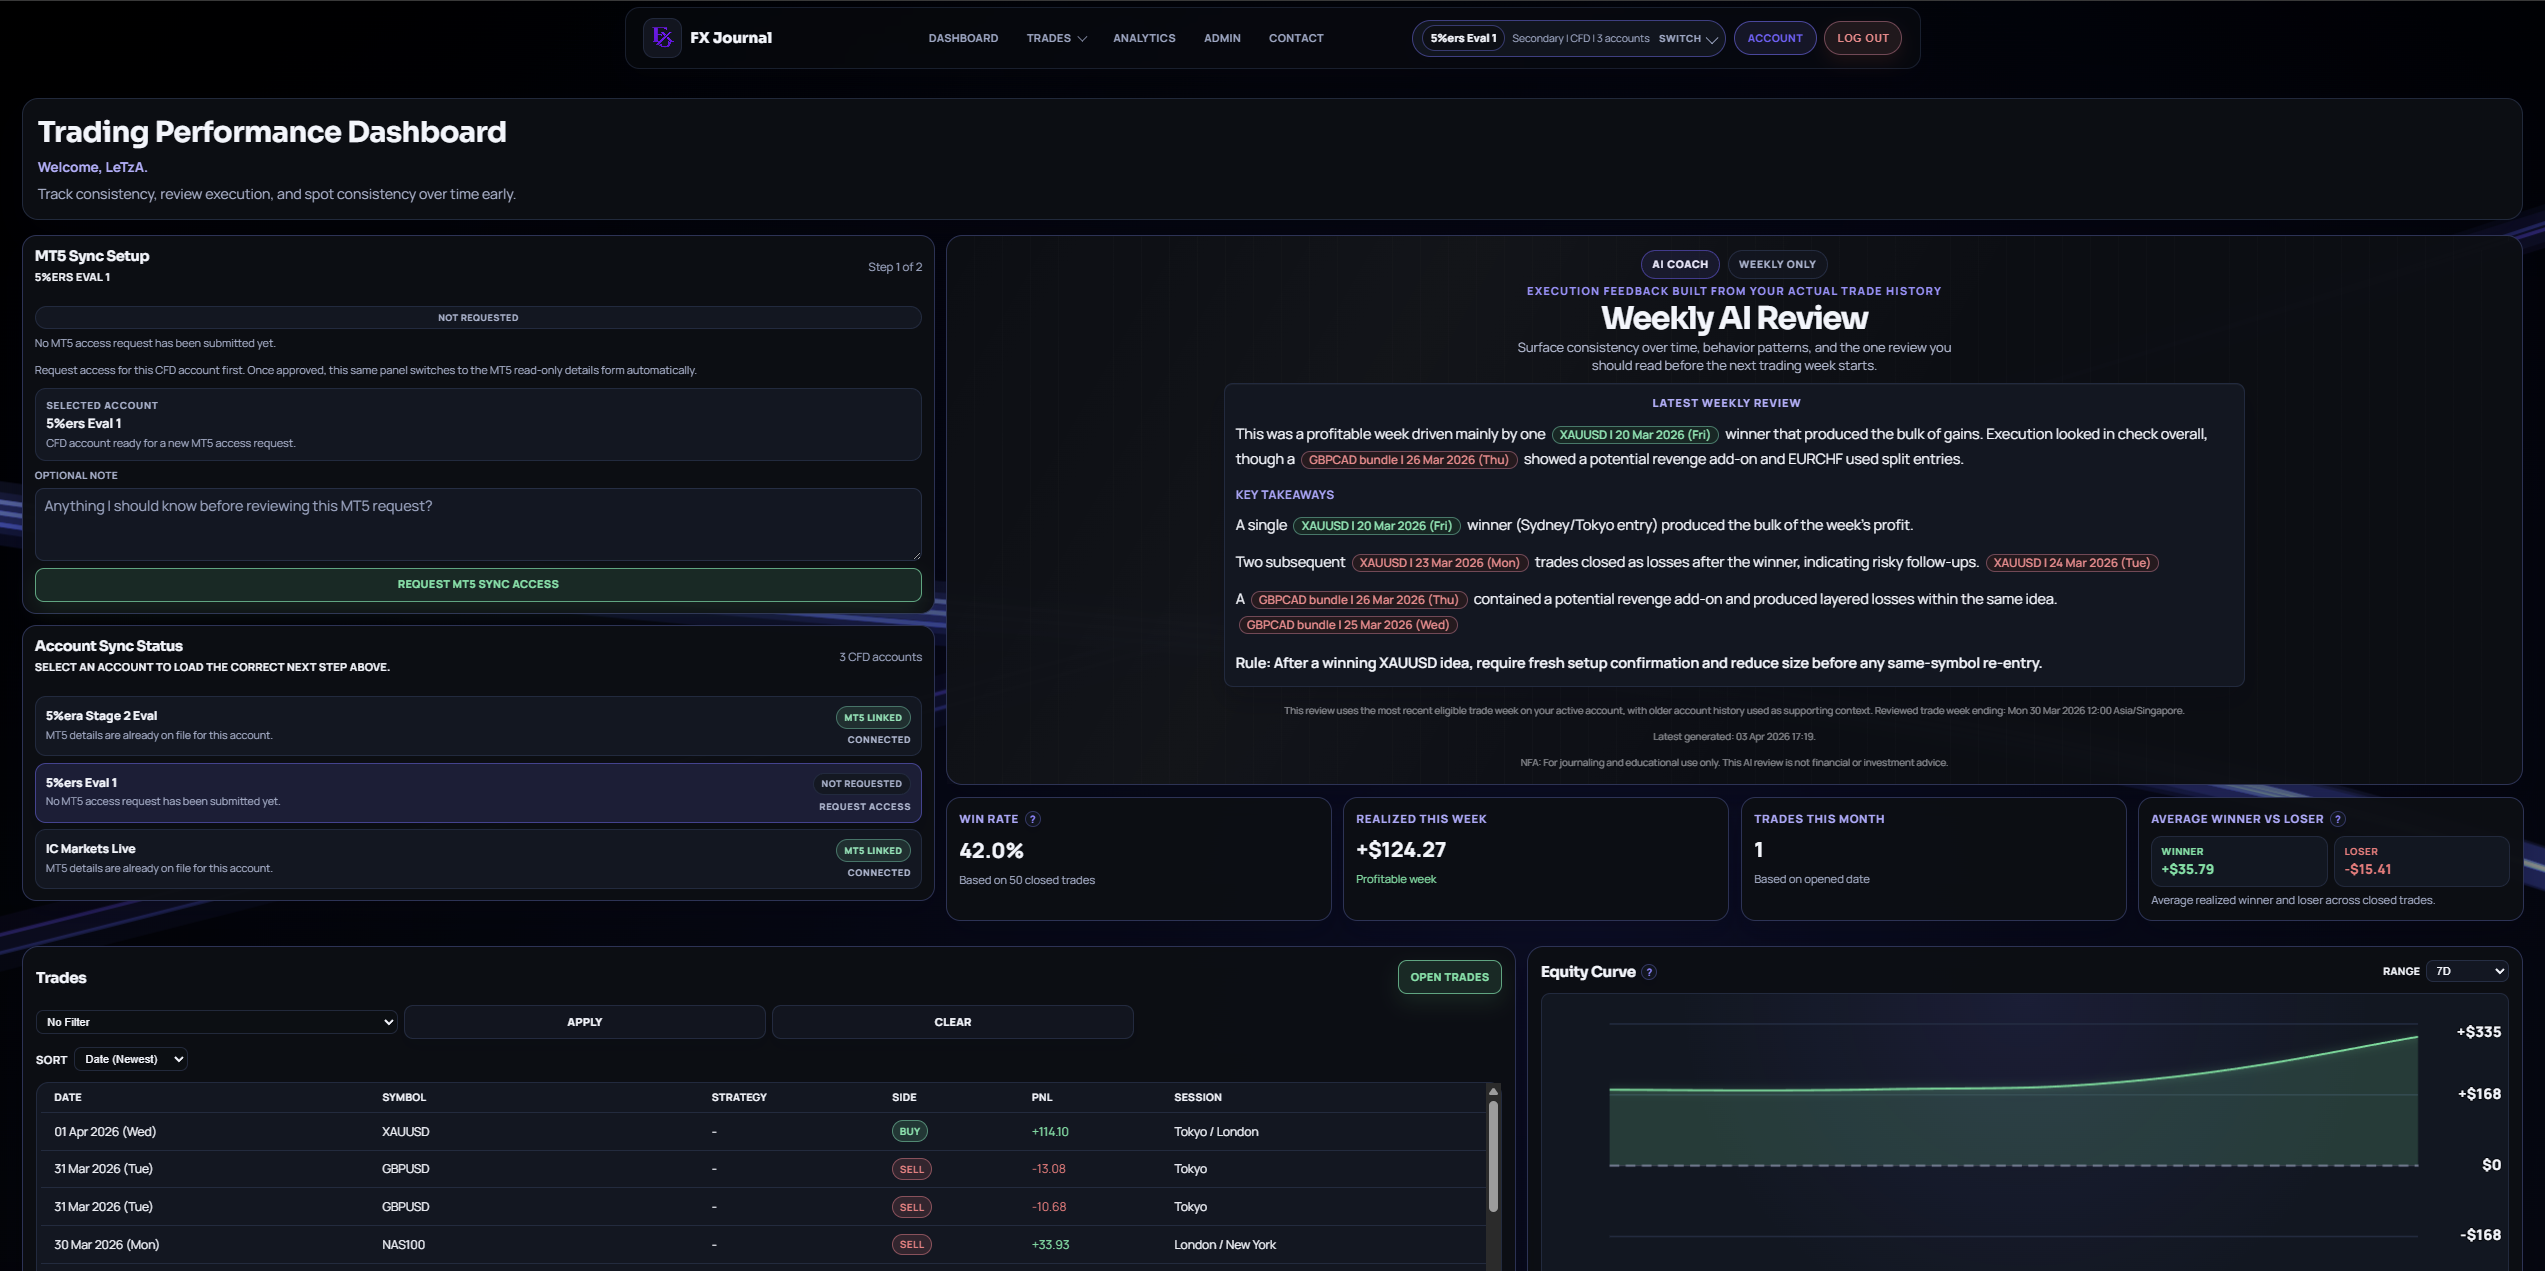
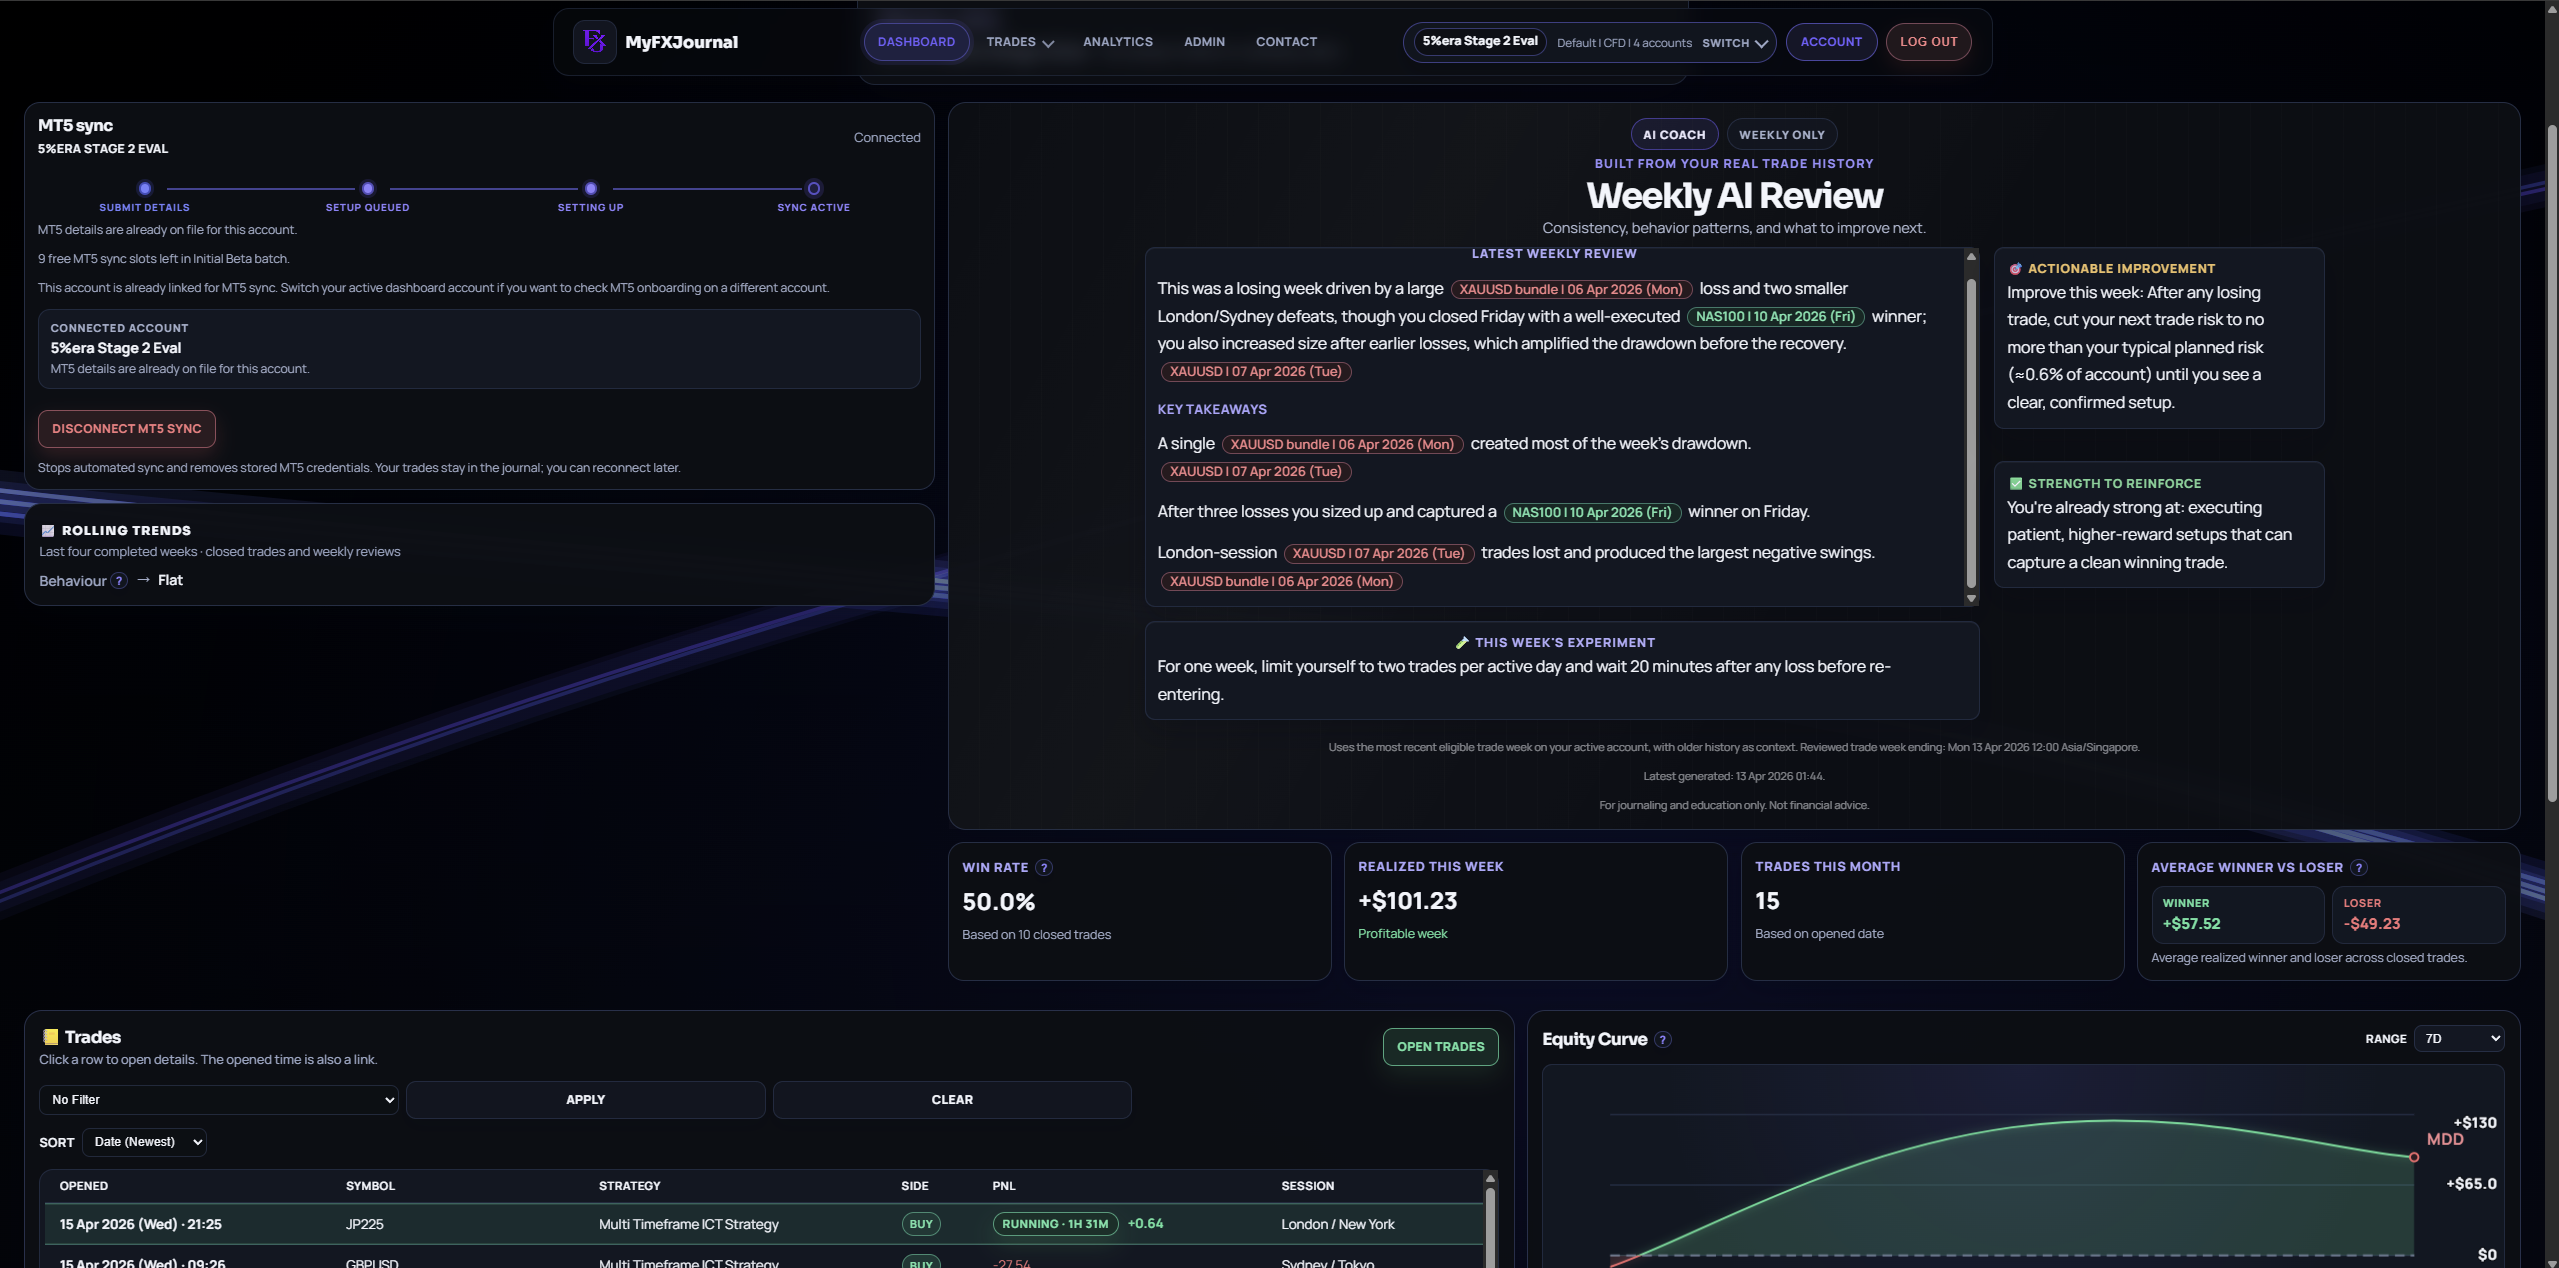
Remove weekly AI screenshot from landing; refresh dashboard and import assets
Made-with: Cursor

diff --git a/templates/landing.html b/templates/landing.html
@@ -207,21 +207,6 @@
                 what slipped, and the one adjustment worth carrying into the next week.
             </p>
 
-            <figure class="ai-demo-screenshot landing-reveal" data-reveal-delay="220">
-                <button
-                    type="button"
-                    class="feature-shot-trigger"
-                    data-feature-shot-trigger
-                    aria-label="Expand the weekly AI review screenshot"
-                >
-                    <img
-                        src="{{ url_for('static', filename='images/features/ai-review.png') }}"
-                        alt="MyFXJournal weekly AI review interface showing coaching output built from trade history."
-                        loading="lazy"
-                    >
-                </button>
-            </figure>
-
             <div class="ai-demo-card landing-reveal" data-reveal-delay="260" data-typewriter-target>
                 <div class="ai-demo-card-head">
                     <span class="ai-demo-label">Latest Weekly Review</span>
@@ -1999,22 +1984,6 @@
         margin: 0 auto;
         padding-top: 0.2rem;
         padding-bottom: 0.2rem;
-    }
-
-    .ai-demo-screenshot {
-        margin: 0 auto 1.1rem;
-        max-width: min(720px, 100%);
-    }
-
-    .ai-demo-screenshot .feature-shot-trigger {
-        width: 100%;
-    }
-
-    .ai-demo-screenshot img {
-        width: 100%;
-        height: auto;
-        display: block;
-        border-radius: 14px;
     }
 
     .ai-demo-chip-row {
